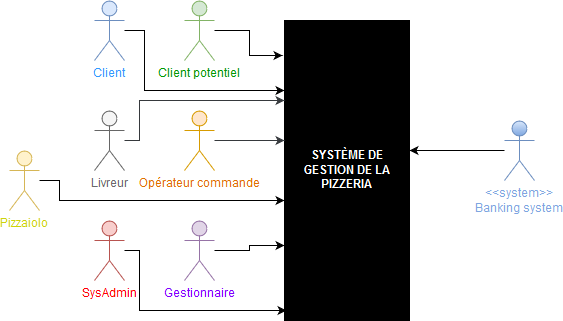
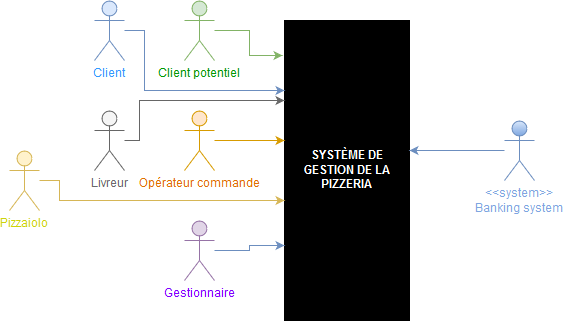
Suppression de la partie SysAdmin et de son acteur

diff --git a/packages/packages.md b/packages/packages.md
@@ -50,17 +50,6 @@ Le *package* commandes concerne l'ensemble des opérations liées à la commande
 | Suivi de commandes          | **Passeur de commandes** ; *Livreur*          |
 | Notification de livraison   | *Livreur*
 
-## Administration système
-
-L'administration système regroupe l'ensemble des opérations ayant trait à la partie informatique du système.
-
-| Cas d'utilisation                    | Acteur(s) et/ou rôle(s) identifié(s) |
-|--------------------------------------|--------------------------------------|
-| Administration du serveur            | **Administrateur**                   |
-| Administration du serveur web        | **Administrateur**                   |
-| Administration de la base de données | **Administrateur**                   |
-| Administration du code source        | **Administrateur**                   |
-
 
 # Diagramme de *packages*
 
